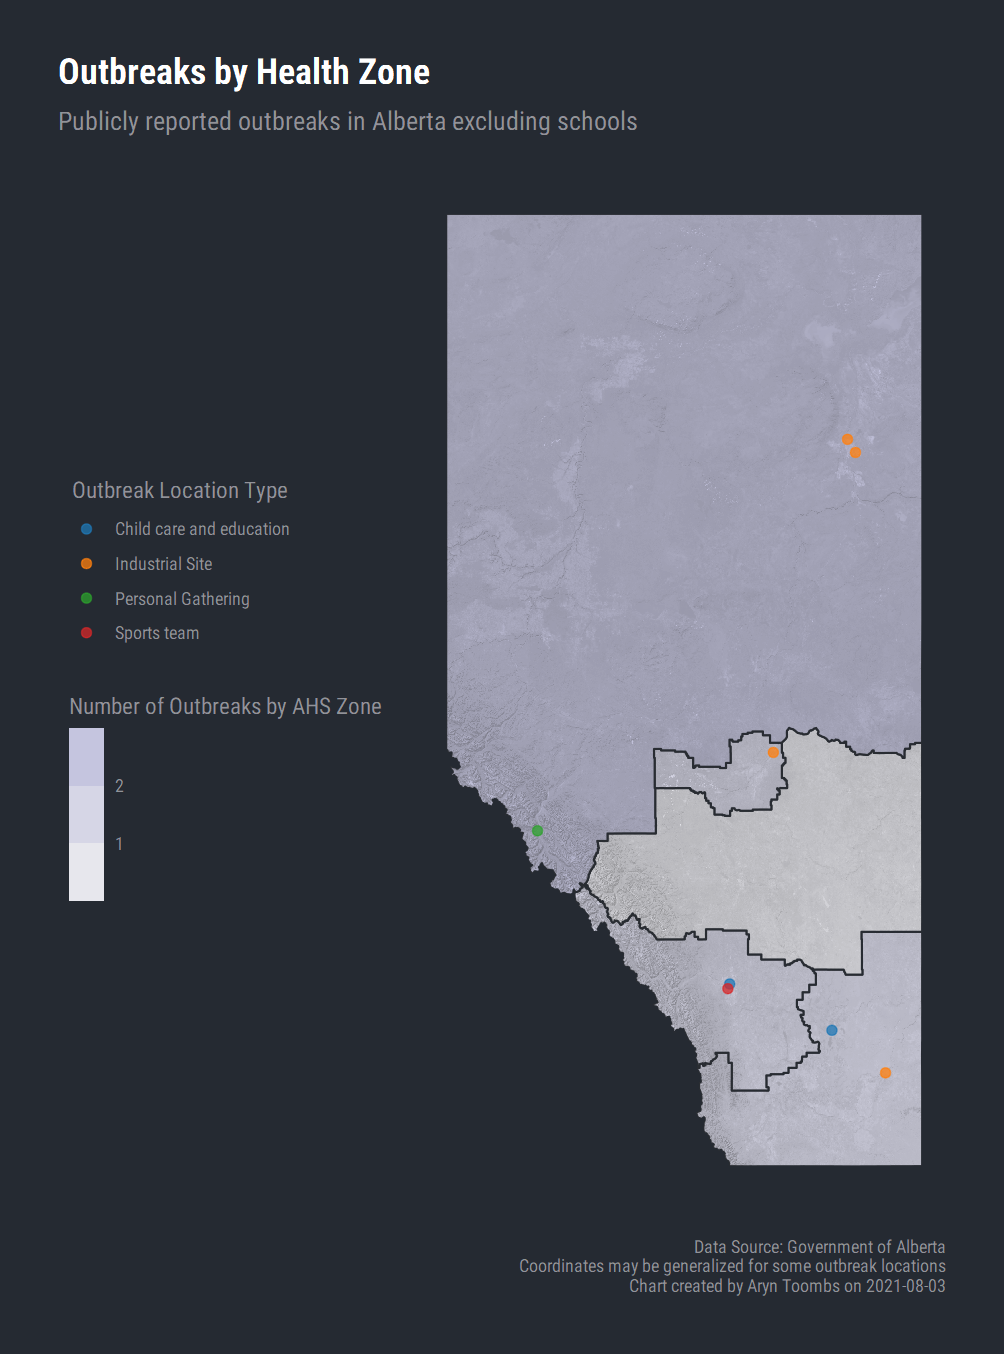
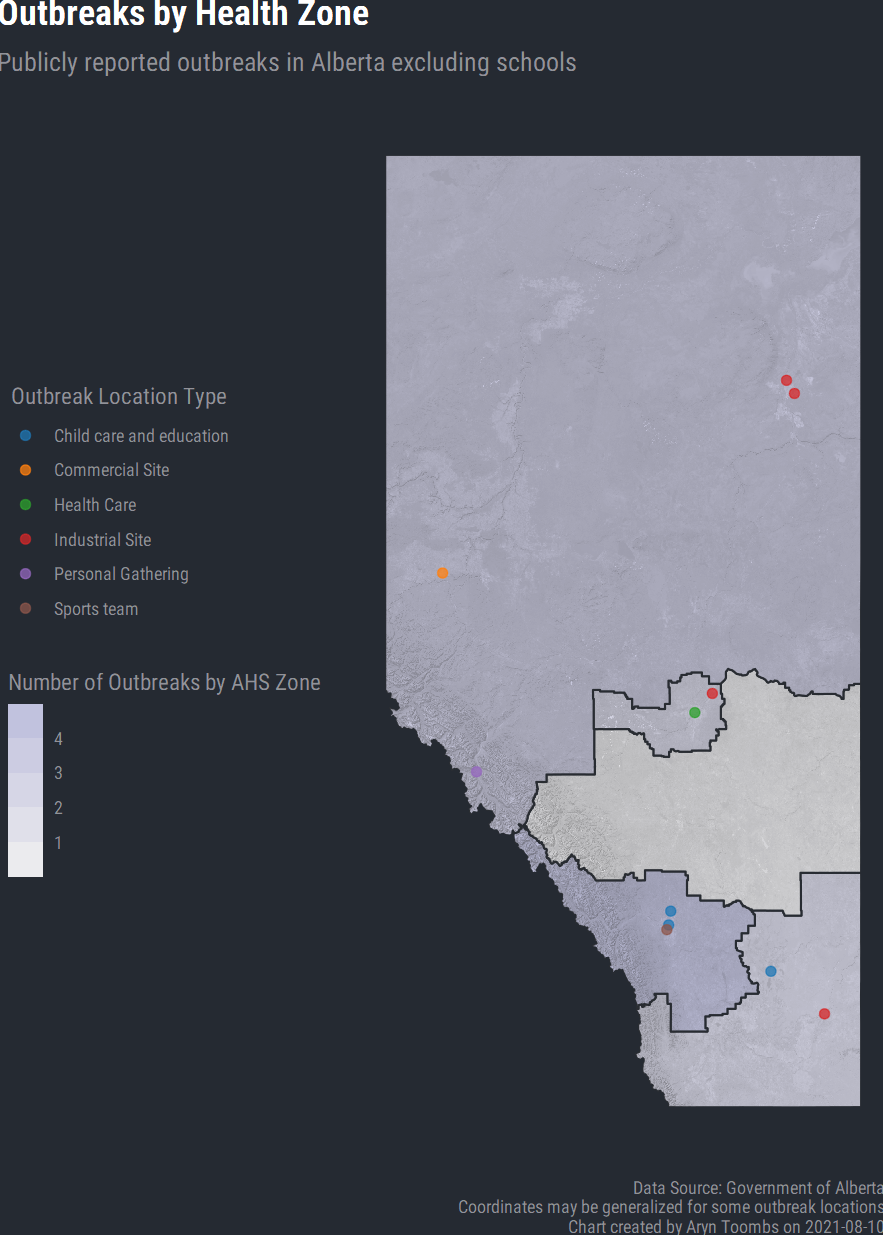
web

Changed region(s): [[0.0, 0.0, 1.0, 1.0], [0.0, 0.3077, 0.3669, 0.7077], [0.8256, 0.3077, 0.8562, 0.3385]]

diff --git a/outbreaks/index.html b/outbreaks/index.html
@@ -162,7 +162,7 @@
       Calgary Zone
     </div>
     <div class="row box-bottom justify-content-center">
-      <h4>2</h4>
+      <h4>5</h4>
     </div>
   </div>
   <div class="col-sm ml-1 mr-1">
@@ -170,7 +170,7 @@
       Edmonton Zone
     </div>
     <div class="row box-bottom justify-content-center">
-      <h4>2</h4>
+      <h4>3</h4>
     </div>
   </div>
   <div class="col-sm ml-1 mr-1">
@@ -178,7 +178,7 @@
       South Zone
     </div>
     <div class="row box-bottom justify-content-center">
-      <h4>2</h4>
+      <h4>3</h4>
     </div>
   </div>
   <div class="col-sm ml-1 mr-1">
@@ -194,12 +194,12 @@
       North Zone
     </div>
     <div class="row box-bottom justify-content-center">
-      <h4>3</h4>
+      <h4>4</h4>
     </div>
   </div>
 </div>
 <div class="row mb-3 pr-1 pt-1 justify-content-end">
-  <p class="m-1"><i class="bi bi-info-circle-fill"></i> Covid-19 outbreaks (not including schools, see below) current as of Tue, Aug 03, 2021. AHS non-school outbreak data updated on Tuesdays and Fridays.</p>
+  <p class="m-1"><i class="bi bi-info-circle-fill"></i> Covid-19 outbreaks (not including schools, see below) current as of Tue, Aug 10, 2021. AHS non-school outbreak data updated on Tuesdays and Fridays.</p>
 </div>
   <div class="row pl-3">
     <h4 class="body-display">Outbreak Charts</h4>
